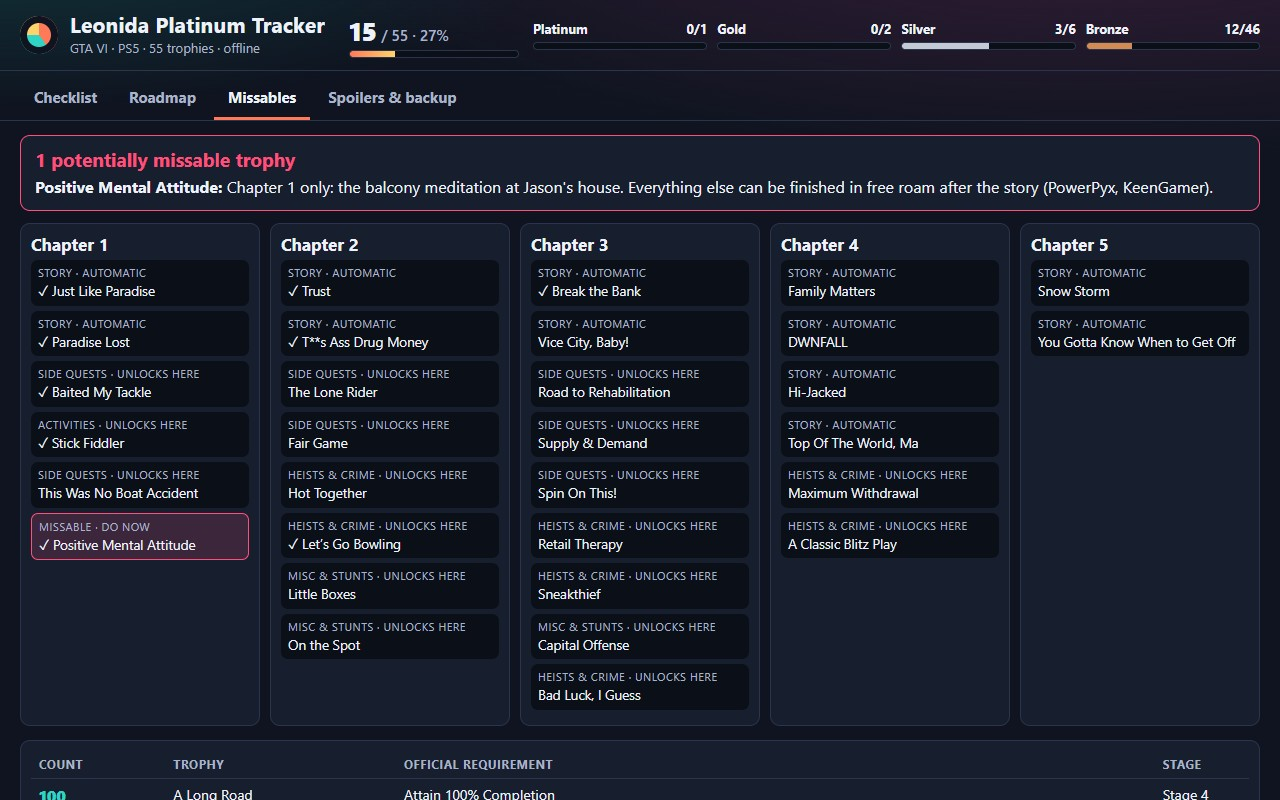
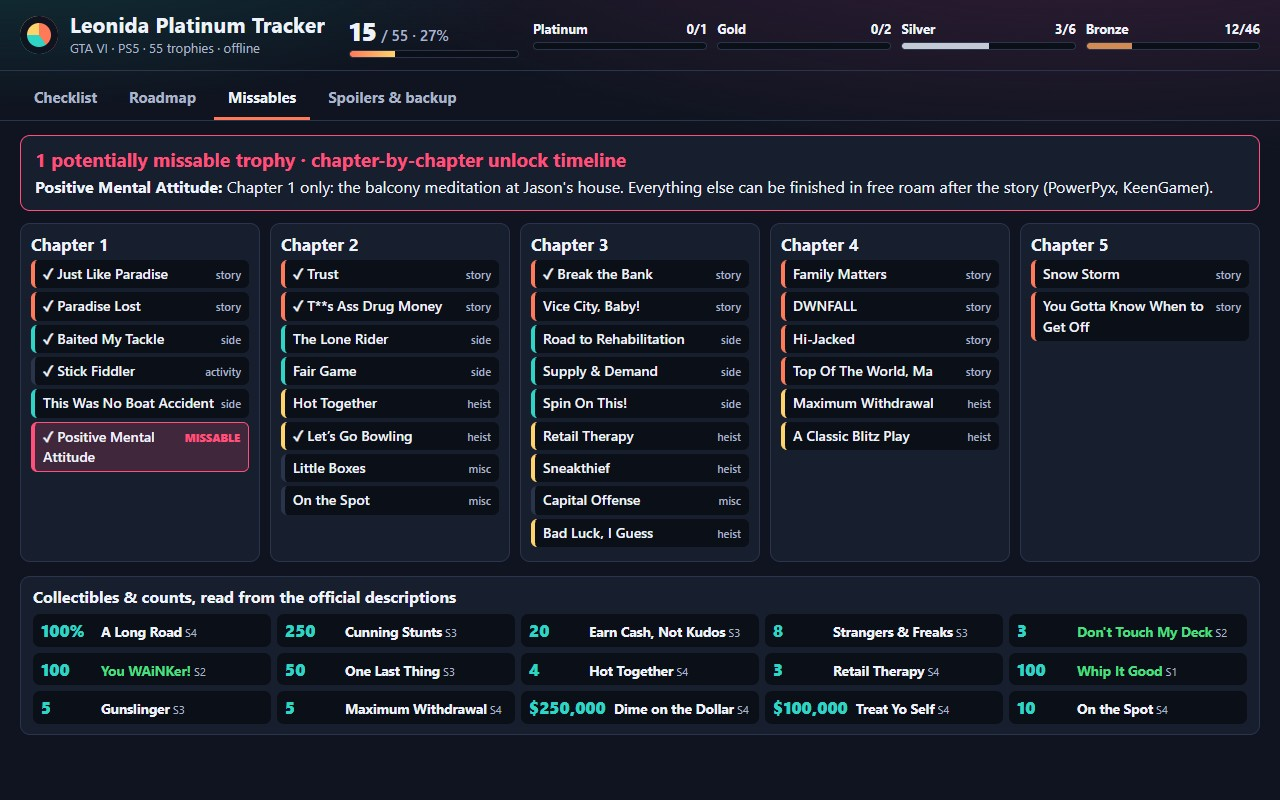
Rebalance roadmap stages, compact missables timeline, richer checklist rows
- Move partner robberies, gang operations and Payday/jewelry jobs to stage 4
  (Heists & final grind) so every roadmap stage fits on one screen
- Checklist rows show chapter, roadmap stage and the cited source
- Missables: one-line timeline entries and a grid of counts read from the
  official descriptions (100%, $250,000, 250 stunts, ...)
- Spoilers & backup: live export-file preview and saved progress by filter
- Re-shot all four screenshots

diff --git a/app/js/render-missables.js b/app/js/render-missables.js
@@ -3,40 +3,46 @@
 import { createElement } from './dom.js';
 import { sortByPlayOrder } from './render-roadmap.js';
 import { visibleName } from './spoilers.js';
-import { KIND_LABELS } from './trophy-data.js';
-
 const CHAPTERS = [1, 2, 3, 4, 5];
+
+// One-word labels so each timeline entry stays on a single line.
+const SHORT_KIND = { story: 'story', side: 'side', collectibles: 'collect', activities: 'activity', crime: 'heist', misc: 'misc', completion: '100%' };
 
 function chapterItem(trophy, state, actions) {
   return createElement(
     'div',
     { className: `chapter-item${trophy.missable ? ' is-missable' : ''}`, onclick: () => actions.openTrophy(trophy.id), style: 'cursor:pointer' },
-    createElement('span', { className: 'kind' }, trophy.missable ? 'Missable · do now' : trophy.kind === 'story' ? 'Story · automatic' : `${KIND_LABELS[trophy.kind]} · unlocks here`),
     `${state.earned.has(trophy.id) ? '✓ ' : ''}${visibleName(trophy, state)}`,
+    createElement('span', { className: `kind kind-${trophy.kind}` }, trophy.missable ? 'MISSABLE' : SHORT_KIND[trophy.kind]),
   );
 }
 
 // Reads the number a trophy asks for straight from its official description ("Complete 250 Stunts.").
 export function countFromDescription(description) {
-  const match = description.match(/\$?([\d,]+)\s*([A-Za-z][^.]*)?/);
+  const match = description.match(/(\$?)([\d,]+)(%?)/);
   if (!match) return null;
-  return { amount: match[0].startsWith('$') ? `$${match[1]}` : match[1], what: description.replace(/\.$/, '') };
+  return { amount: `${match[1]}${match[2]}${match[3]}`, what: description.replace(/\.$/, '') };
 }
 
-function countsTable(data, state) {
+function countCards(data, state) {
   const rows = data.trophies
     .filter((trophy) => trophy.kind !== 'story' && /\d/.test(trophy.description))
     .map((trophy) => ({ trophy, count: countFromDescription(trophy.description) }))
     .filter((row) => row.count);
   return createElement(
-    'table',
-    { className: 'counts-table' },
-    createElement('thead', {}, createElement('tr', {}, createElement('th', {}, 'Count'), createElement('th', {}, 'Trophy'), createElement('th', {}, 'Official requirement'), createElement('th', {}, 'Stage'))),
+    'section',
+    { className: 'panel counts-panel' },
+    createElement('h2', {}, 'Collectibles & counts, read from the official descriptions'),
     createElement(
-      'tbody',
-      {},
+      'div',
+      { className: 'count-grid' },
       rows.map(({ trophy, count }) =>
-        createElement('tr', {}, createElement('td', { className: 'count' }, count.amount), createElement('td', {}, visibleName(trophy, state)), createElement('td', {}, count.what), createElement('td', {}, `Stage ${trophy.stage}`)),
+        createElement(
+          'div',
+          { className: `count-card${state.earned.has(trophy.id) ? ' earned' : ''}`, title: count.what },
+          createElement('span', { className: 'count' }, count.amount),
+          createElement('span', {}, createElement('b', {}, visibleName(trophy, state)), createElement('small', {}, ` S${trophy.stage}`)),
+        ),
       ),
     ),
   );
@@ -54,10 +60,10 @@ export function renderMissablesView(data, state, actions) {
     createElement(
       'section',
       { className: 'panel missable-callout' },
-      createElement('h2', {}, `${missables.length} potentially missable trophy`),
+      createElement('h2', {}, `${missables.length} potentially missable trophy · chapter-by-chapter unlock timeline`),
       missables.map((trophy) => createElement('p', { style: 'margin:0' }, createElement('b', {}, `${trophy.name}: `), trophy.missableNote, ' Everything else can be finished in free roam after the story (PowerPyx, KeenGamer).')),
     ),
     createElement('div', { className: 'timeline' }, columns),
-    createElement('section', { className: 'panel', style: 'padding:10px' }, countsTable(data, state)),
+    countCards(data, state),
   );
 }

diff --git a/app/css/views.css b/app/css/views.css
@@ -36,19 +36,35 @@
 
 .chapter-col h2 { font-size: 17px; margin-bottom: 6px; }
 
-.chapter-item { font-size: 13.5px; padding: 5px 7px; border-radius: 7px; margin-bottom: 5px; background: var(--bg-sunk); }
+.chapter-item {
+  font-size: 14px; font-weight: 600; padding: 4px 8px; border-radius: 6px; margin-bottom: 4px;
+  background: var(--bg-sunk); border-left: 4px solid var(--line);
+  display: flex; justify-content: space-between; gap: 6px; align-items: baseline;
+}
 
-.chapter-item.is-missable { background: rgba(255, 79, 123, 0.16); border: 1px solid var(--missable); }
+.chapter-item.is-missable { background: rgba(255, 79, 123, 0.18); border: 1px solid var(--missable); border-left-width: 4px; }
 
-.chapter-item .kind { display: block; font-size: 11px; color: var(--text-dim); text-transform: uppercase; letter-spacing: 0.5px; }
+.chapter-item .kind { font-size: 11px; color: var(--text-dim); white-space: nowrap; font-weight: 500; }
 
-.counts-table { width: 100%; border-collapse: collapse; font-size: 14px; }
+.chapter-item.is-missable .kind { color: var(--missable); font-weight: 800; }
 
-.counts-table th, .counts-table td { text-align: left; padding: 5px 8px; border-bottom: 1px solid var(--line); }
+.chapter-item:has(.kind-story) { border-left-color: var(--accent); }
+.chapter-item:has(.kind-side) { border-left-color: var(--accent-2); }
+.chapter-item:has(.kind-crime) { border-left-color: #ffd36b; }
 
-.counts-table th { color: var(--text-dim); font-size: 12px; text-transform: uppercase; letter-spacing: 0.5px; }
+.counts-panel { padding: 10px 12px; }
 
-.counts-table .count { font-weight: 800; color: var(--accent-2); font-size: 16px; }
+.counts-panel h2 { font-size: 16px; margin-bottom: 8px; }
+
+.count-grid { display: grid; grid-template-columns: repeat(5, 1fr); gap: 6px; }
+
+.count-card { display: flex; gap: 8px; align-items: baseline; background: var(--bg-sunk); border-radius: 7px; padding: 4px 8px; font-size: 13.5px; }
+
+.count-card.earned b { color: var(--earned); }
+
+.count-card .count { font-weight: 800; color: var(--accent-2); font-size: 17px; min-width: 52px; }
+
+.count-card small { color: var(--text-dim); }
 
 .missable-callout { padding: 12px 14px; margin-bottom: 12px; border-color: var(--missable); }
 
@@ -57,6 +73,10 @@
 .settings-grid { display: grid; grid-template-columns: 1fr 1fr; gap: 14px; }
 
 .settings-card { padding: 16px; }
+
+.settings-card.wide { grid-column: 1 / -1; padding: 12px 16px; }
+
+.kind-progress-grid { display: grid; grid-template-columns: repeat(7, 1fr); gap: 12px; }
 
 .settings-card h2 { font-size: 20px; margin-bottom: 6px; }
 
@@ -74,6 +94,13 @@
 .btn.secondary { background: var(--bg-sunk); color: var(--text); border: 1px solid var(--line); }
 
 .status-line { min-height: 22px; font-size: 14px; color: var(--earned); }
+
+.preview-head { font-size: 14px; color: var(--accent-2); text-transform: uppercase; letter-spacing: 0.5px; margin: 6px 0; }
+
+.export-preview {
+  background: var(--bg-sunk); border: 1px solid var(--line); border-radius: 8px; padding: 10px 12px;
+  font: 13.5px/1.5 ui-monospace, "Cascadia Mono", Consolas, monospace; white-space: pre-wrap; margin: 0 0 8px;
+}
 
 .preview-list { list-style: none; padding: 0; margin: 10px 0 0; font-size: 14px; }
 

diff --git a/app/js/render-tracker.js b/app/js/render-tracker.js
@@ -4,6 +4,7 @@ import { createElement } from './dom.js';
 import { countForKindFilter, filterTrophies, GRADE_FILTERS, KIND_FILTERS, STATUS_FILTERS } from './filters.js';
 import { gradeBadge, renderGuidePanel } from './render-guide.js';
 import { isSpoilerHidden, visibleDescription, visibleName } from './spoilers.js';
+import { resolveSources } from './trophy-data.js';
 
 function chip(label, pressed, onClick, count, extraClass = '') {
   return createElement(
@@ -35,7 +36,14 @@ function renderFilterBar(data, state, actions) {
   return createElement('div', { className: 'filter-bar' }, kindChips, gradeSelect, statusSelect, search, createElement('span', { className: 'tag' }, 'Online: none in list'));
 }
 
-function renderTrophyRow(trophy, state, actions) {
+// "Ch 1 · Stage 2 · PowerPyx +1": where the trophy sits in the roadmap and which guides back its tips.
+function rowMetaLine(trophy, data) {
+  const sources = resolveSources(trophy, data.sources).map((source) => source.name.split(' – ')[0]);
+  const cited = sources.length > 1 ? `${sources[0]} +${sources.length - 1}` : sources[0] ?? 'no source';
+  return [trophy.chapter ? `Ch ${trophy.chapter}` : null, `Stage ${trophy.stage}`, `Cited: ${cited}`].filter(Boolean).join(' · ');
+}
+
+function renderTrophyRow(trophy, data, state, actions) {
   const earned = state.earned.has(trophy.id);
   const checkbox = createElement('input', {
     type: 'checkbox', className: 'earn-box', checked: earned, 'aria-label': `Earned: ${visibleName(trophy, state)}`,
@@ -48,10 +56,15 @@ function renderTrophyRow(trophy, state, actions) {
     createElement('div', {}, createElement('div', { className: 'trophy-name' }, visibleName(trophy, state)), createElement('div', { className: 'trophy-desc' }, visibleDescription(trophy, state))),
     createElement(
       'div',
-      { className: 'trophy-tags' },
-      trophy.missable ? createElement('span', { className: 'tag missable' }, 'Missable') : null,
-      isSpoilerHidden(trophy, state) ? createElement('span', { className: 'tag spoiler' }, 'Spoiler') : null,
-      gradeBadge(trophy.grade),
+      { className: 'trophy-side' },
+      createElement(
+        'div',
+        { className: 'trophy-tags' },
+        trophy.missable ? createElement('span', { className: 'tag missable' }, 'Missable') : null,
+        isSpoilerHidden(trophy, state) ? createElement('span', { className: 'tag spoiler' }, 'Spoiler') : null,
+        gradeBadge(trophy.grade),
+      ),
+      createElement('div', { className: 'trophy-meta' }, rowMetaLine(trophy, data)),
     ),
   );
 }
@@ -59,7 +72,7 @@ function renderTrophyRow(trophy, state, actions) {
 export function renderTrackerView(data, state, actions) {
   const visible = filterTrophies(data.trophies, state);
   const list = visible.length
-    ? createElement('ul', { className: 'trophy-list' }, visible.map((trophy) => renderTrophyRow(trophy, state, actions)))
+    ? createElement('ul', { className: 'trophy-list' }, visible.map((trophy) => renderTrophyRow(trophy, data, state, actions)))
     : createElement('p', { className: 'list-empty' }, 'No trophy matches these filters.');
   return createElement(
     'div',

diff --git a/app/js/render-settings.js b/app/js/render-settings.js
@@ -1,10 +1,11 @@
 // Spoilers & backup view: the story spoiler toggle with a live preview, export, import and reset.
 
 import { createElement } from './dom.js';
+import { KIND_FILTERS } from './filters.js';
 import { visibleDescription, visibleName } from './spoilers.js';
 
 function spoilerCard(data, state, actions) {
-  const preview = data.trophies.filter((trophy) => trophy.kind === 'story').slice(0, 6);
+  const preview = data.trophies.filter((trophy) => trophy.kind === 'story').slice(0, 9);
   return createElement(
     'section',
     { className: 'panel settings-card' },
@@ -35,10 +36,33 @@ function backupCard(state, actions) {
     createElement('button', { className: 'btn secondary', onclick: actions.resetAll }, 'Reset'),
     fileInput,
     createElement('p', { className: 'status-line', role: 'status' }, state.statusMessage ?? ''),
-    createElement('p', {}, 'File format: { "format": "leonida-platinum-tracker/progress", "earned": [trophy ids], "hideStorySpoilers": true }'),
+    createElement('h3', { className: 'preview-head' }, 'What the export file holds'),
+    createElement('pre', { className: 'export-preview' }, exportPreviewText(state)),
+    createElement('p', {}, 'Import accepts this file from any browser; unknown trophy ids are ignored and the platinum is recomputed from the other 54.'),
   );
 }
 
+function exportPreviewText(state) {
+  const earned = [...state.earned].sort((a, b) => a - b);
+  return JSON.stringify({ format: 'leonida-platinum-tracker/progress', earned: '__EARNED__', hideStorySpoilers: state.hideStorySpoilers }, null, 2)
+    .replace('"__EARNED__"', `[${earned.join(', ')}]`);
+}
+
+// Earned / total for every checklist filter, so a restored backup can be checked at a glance.
+function progressByKindCard(data, state) {
+  const rows = KIND_FILTERS.filter((filter) => filter.id !== 'all').map((filter) => {
+    const matching = data.trophies.filter(filter.test);
+    const earned = matching.filter((trophy) => state.earned.has(trophy.id)).length;
+    return createElement(
+      'div',
+      { className: 'kind-progress' },
+      createElement('div', { className: 'grade-bar-label' }, createElement('span', {}, filter.label), createElement('span', {}, `${earned}/${matching.length}`)),
+      createElement('div', { className: 'bar' }, createElement('span', { style: `width:${matching.length ? Math.round((earned / matching.length) * 100) : 0}%` })),
+    );
+  });
+  return createElement('section', { className: 'panel settings-card wide' }, createElement('h2', {}, 'Saved progress by filter'), createElement('div', { className: 'kind-progress-grid' }, rows));
+}
+
 export function renderSettingsView(data, state, actions) {
-  return createElement('div', { className: 'settings-grid' }, spoilerCard(data, state, actions), backupCard(state, actions));
+  return createElement('div', { className: 'settings-grid' }, spoilerCard(data, state, actions), backupCard(state, actions), progressByKindCard(data, state));
 }

diff --git a/app/js/render-roadmap.js b/app/js/render-roadmap.js
@@ -38,7 +38,7 @@ export function renderRoadmapView(data, state, actions) {
   return createElement(
     'div',
     {},
-    createElement('p', { className: 'view-intro' }, 'One playthrough, about 200 hours (PowerPyx). Story first with the one missable, then collectibles, then activities, then the 100% grind. Click any trophy to open its guide.'),
+    createElement('p', { className: 'view-intro' }, 'One playthrough, ~200 h (PowerPyx). ! marks the one missable. Ch = chapter it opens in. Click a trophy for its guide.'),
     createElement('div', { className: 'stage-grid' }, data.stages.map((stage) => stageCard(stage, data, state, actions))),
   );
 }

diff --git a/app/css/tracker.css b/app/css/tracker.css
@@ -38,7 +38,11 @@
 
 .trophy-desc { color: var(--text-dim); font-size: 14.5px; }
 
+.trophy-side { display: flex; flex-direction: column; align-items: flex-end; gap: 4px; }
+
 .trophy-tags { display: flex; gap: 6px; align-items: center; justify-content: flex-end; flex-wrap: wrap; }
+
+.trophy-meta { font-size: 12.5px; color: var(--accent-2); white-space: nowrap; font-weight: 600; }
 
 .grade-badge {
   display: inline-flex; align-items: center; gap: 5px; border-radius: 6px; padding: 2px 8px;
